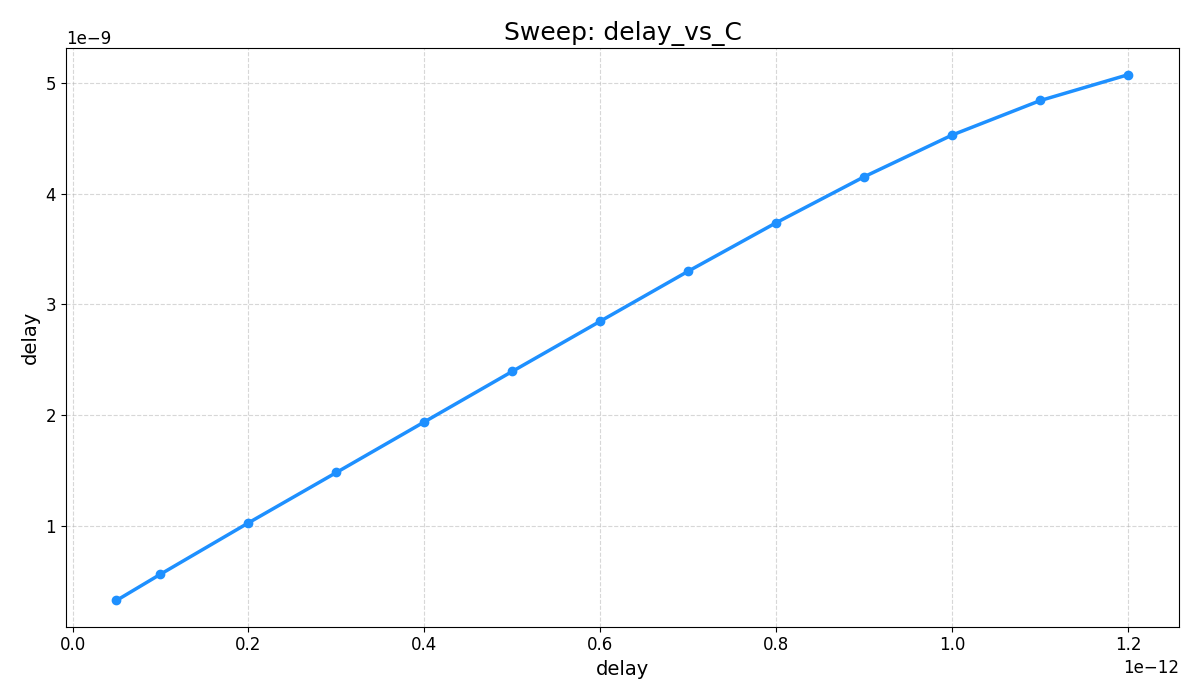
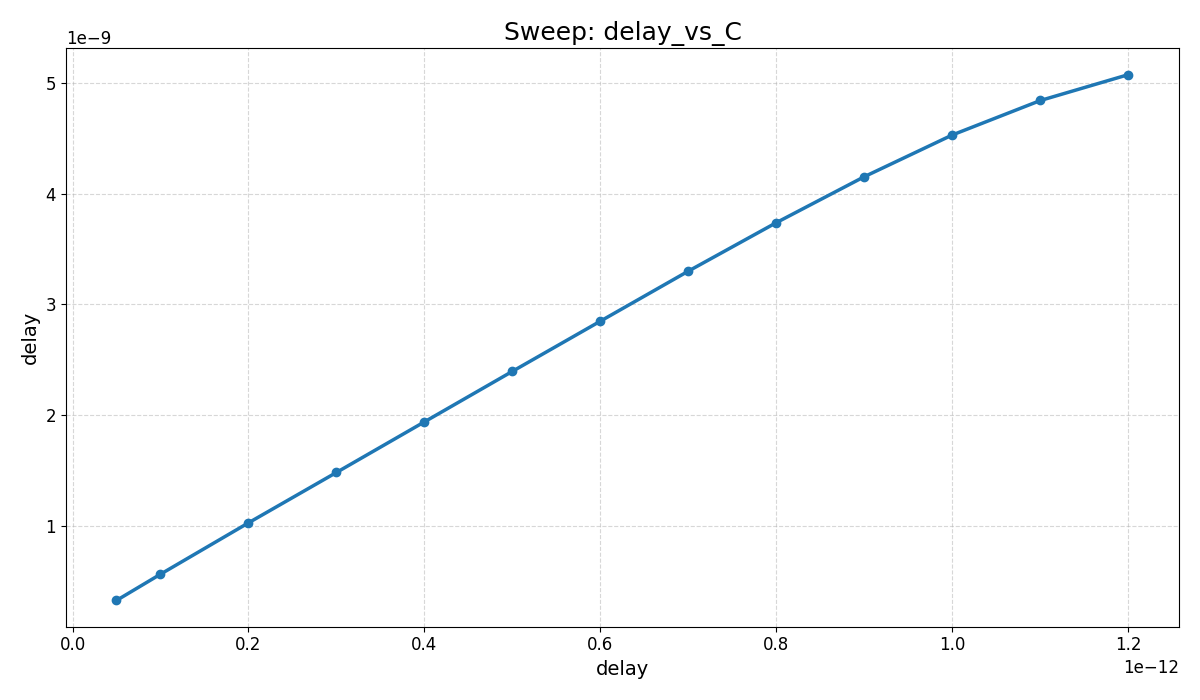
plot_set_v2

diff --git a/plot_delay.py b/plot_delay.py
@@ -3,7 +3,7 @@ import matplotlib.pyplot as plt
 import re
 from pathlib import Path
 
-# --- Global Style Configuration ---
+# --- User Specified Style ---
 PPT_STYLE = {
     "font.size": 14,
     "axes.titlesize": 18,
@@ -23,7 +23,6 @@ class CadencePlotter:
         self.base_dir = Path(base_dir)
 
     def _resolve_path(self, filename):
-        """Finds the file in the local dir or the base_dir."""
         path = Path(filename)
         if not path.exists():
             path = self.base_dir / filename
@@ -38,9 +37,9 @@ class CadencePlotter:
         return df, path
 
     def plot_signals(self, filename):
-        """Format: Multiple X-Y pairs (e.g., Transient waveforms)."""
+        """Format: Multiple X-Y pairs (Transient waveforms)."""
         df, path = self.load_data(filename)
-        if df is None: return
+        if df is None: return None
         
         x_cols = [c for c in df.columns if c.endswith(' X')]
         plt.figure()
@@ -52,39 +51,31 @@ class CadencePlotter:
                 mask = x_vals.notna() & y_vals.notna()
                 plt.plot(x_vals[mask], y_vals[mask], label=x_col[:-2].lstrip('/'))
         
-        plt.xlabel("X-axis")
-        plt.ylabel("Y-axis")
+        plt.xlabel("X-axis"); plt.ylabel("Y-axis")
         plt.title(f"Waveforms: {path.name}")
-        if len(x_cols) > 1:
-            plt.legend(bbox_to_anchor=(1.05, 1), loc='upper left')
-        plt.grid(True)
-        plt.tight_layout()
+        if len(x_cols) > 1: plt.legend(bbox_to_anchor=(1.05, 1), loc='upper left')
+        plt.grid(True); plt.tight_layout()
         plt.savefig(f"plots/signals_{path.stem}.png")
 
     def plot_generic_sweep(self, filename):
-        """Format: Single X and Y pair (e.g., Delay vs VDD)."""
+        """Format: Single X and Y pair."""
         df, path = self.load_data(filename)
-        if df is None: return
-        
+        if df is None: return None
         x_cols = [c for c in df.columns if c.endswith(' X')]
         y_cols = [c for c in df.columns if c.endswith(' Y')]
-        if not x_cols or not y_cols: return
+        if not x_cols or not y_cols: return None
         
-        x, y = x_cols[0], y_cols[0]
         plt.figure()
-        plt.plot(df[x], df[y], marker='o', color='dodgerblue')
-        plt.xlabel(x.replace(' X', ''))
-        plt.ylabel(y.replace(' Y', ''))
+        plt.plot(df[x_cols[0]], df[y_cols[0]], marker='o')
+        plt.xlabel(x_cols[0].replace(' X', '')); plt.ylabel(y_cols[0].replace(' Y', ''))
         plt.title(f"Sweep: {path.stem}")
-        plt.grid(True)
-        plt.tight_layout()
+        plt.grid(True); plt.tight_layout()
         plt.savefig(f"plots/generic_{path.stem}.png")
 
     def plot_digital_sweep(self, filename, y_label="Value"):
         """Format: Reconstructs b2b1b0 digital code."""
         df, path = self.load_data(filename)
-        if df is None: return
-        
+        if df is None: return None
         data = []
         bit_pattern = re.compile(r"b0[^\d]*(\d)[^\d]*b1[^\d]*(\d)")
         for x_col in [c for c in df.columns if c.endswith(' X')]:
@@ -97,98 +88,71 @@ class CadencePlotter:
                         b2 = int(float(row[x_col]))
                         data.append({'c': (b2<<2)|(b1<<1)|b0, 'l': f"{b2}{b1}{b0}", 'y': row[y_col]})
                     except: continue
-
-        if not data: return
+        if not data: return None
         plot_df = pd.DataFrame(data).sort_values('c')
         plt.figure()
         plt.plot(plot_df['l'], plot_df['y'], marker='o', color='crimson')
-        plt.xlabel("Digital Code ($b_2 b_1 b_0$)")
-        plt.ylabel(y_label)
+        plt.xlabel("Digital Code ($b_2 b_1 b_0$)"); plt.ylabel(y_label)
         plt.title(f"Digital Sweep: {path.name}")
-        plt.grid(True)
-        plt.tight_layout()
+        plt.grid(True); plt.tight_layout()
         plt.savefig(f"plots/digital_{path.stem}.png")
 
     def plot_histogram(self, filename):
         """Plots a histogram for Monte Carlo data with Mean and Std Dev."""
         df, path = self.load_data(filename)
-        if df is None: return
-        
+        if df is None: return None
         data = pd.to_numeric(df.iloc[:, 0], errors='coerce').dropna()
         plt.figure()
         plt.hist(data, bins=30, color='skyblue', edgecolor='black', alpha=0.7)
-        
         mean, std = data.mean(), data.std()
-        plt.axvline(mean, color='red', linestyle='-', linewidth=2, label=f'Mean ($\mu$): {mean:.3e}')
-        plt.axvline(mean + std, color='orange', linestyle='--', linewidth=1.5, label=f'Std Dev ($\sigma$): {std:.3e}')
-        plt.axvline(mean - std, color='orange', linestyle='--', linewidth=1.5)
+        plt.axvline(mean, color='red', linestyle='-', linewidth=2, label=f'Mean: {mean:.3e}')
+        plt.axvline(mean + std, color='orange', linestyle='--', linewidth=1.5, label=f'Std Dev: {std:.3e}')
+        plt.axvline(mean - std, color='orange', linestyle='--')
         plt.axvspan(mean - std, mean + std, color='orange', alpha=0.1, label='1-$\sigma$ Spread')
-        
         plt.title(f"Monte Carlo: {path.name}\n($\mu$={mean:.3e}, $\sigma$={std:.3e})")
-        plt.xlabel(df.columns[0].replace(' X', ''))
-        plt.ylabel("Frequency")
+        plt.xlabel(df.columns[0].replace(' X', '')); plt.ylabel("Frequency")
         plt.legend(); plt.grid(True); plt.tight_layout()
         plt.savefig(f"plots/mc_hist_{path.stem}.png")
 
     def plot_corner_temperature_sweep(self, filename):
         """Plots metric vs temperature for different PVT corners."""
         df, path = self.load_data(filename)
-        if df is None: return
-        
+        if df is None: return None
         x_cols = [c for c in df.columns if c.endswith(' X')]
         plt.figure()
         corner_pattern = re.compile(r"top_(\w+)")
-        
         for x_col in x_cols:
             y_col = x_col[:-2] + ' Y'
             if y_col in df.columns:
                 match = corner_pattern.search(x_col)
                 label = match.group(1).upper() if match else x_col
                 plt.plot(df[x_col], df[y_col], marker='o', label=label)
-        
-        plt.xlabel("Temperature [$^{\circ}$C]")
-        plt.ylabel(path.stem.split('_')[0].capitalize())
+        plt.xlabel("Temperature [$^{\circ}$C]"); plt.ylabel(path.stem.split('_')[0].capitalize())
         plt.title(f"Corner Sweep: {path.name}")
         plt.legend(title="Corners"); plt.grid(True); plt.tight_layout()
-        plt.savefig(f"plots/corner_sweep_{path.stem}.png")
+        plt.savefig(f"plots/corner_{path.stem}.png")
 
     def smart_plot(self, filename):
         """Automatically detects format and plots accordingly."""
         df, path = self.load_data(filename)
         if df is None: return
-            
         name_lower = filename.lower()
-        if "mc" in name_lower:
-            return self.plot_histogram(filename)
-        if "corner_t" in name_lower:
-            return self.plot_corner_temperature_sweep(filename)
-        if any(re.search(r"b0.*b1", c) for c in df.columns):
-            return self.plot_digital_sweep(filename)
-        
+        if "mc" in name_lower: return self.plot_histogram(filename)
+        if "corner_t" in name_lower: return self.plot_corner_temperature_sweep(filename)
+        if any(re.search(r"b0.*b1", c) for c in df.columns): return self.plot_digital_sweep(filename)
         x_cols = [c for c in df.columns if c.endswith(' X')]
-        if len(x_cols) == 1:
-            return self.plot_generic_sweep(filename)
-        if len(x_cols) > 1:
-            return self.plot_signals(filename)
+        if len(x_cols) == 1: return self.plot_generic_sweep(filename)
+        if len(x_cols) > 1: return self.plot_signals(filename)
 
 # --- Usage ---
 plotter = CadencePlotter(base_dir="results_cadence")
 
-# 1. Automatic Plots for all provided files
+# 1. Automatic Plots
 files = [
-    "delay_vs_code.csv", 
-    "power_vs_code.csv", 
-    "delay_vs_vdd.csv", 
-    "delay_vs_C.csv", 
-    "power_vs_C.csv", 
-    "power_vs_vdd.csv", 
-    "plot_signals.csv",
-    "delay_vs_corner_T.csv",
-    "Power_vs_corner_T.csv",
-    "power_mc_tt.csv",
-    "delay_mc_tt.csv"
+    "delay_vs_code.csv", "power_vs_code.csv", "delay_vs_vdd.csv", 
+    "delay_vs_C.csv", "power_vs_C.csv", "power_vs_vdd.csv", "plot_signals.csv",
+    "delay_vs_corner_T.csv", "Power_vs_corner_T.csv", "power_mc_tt.csv", "delay_mc_tt.csv"
 ]
-
 for f in files:
     plotter.smart_plot(f)
 
